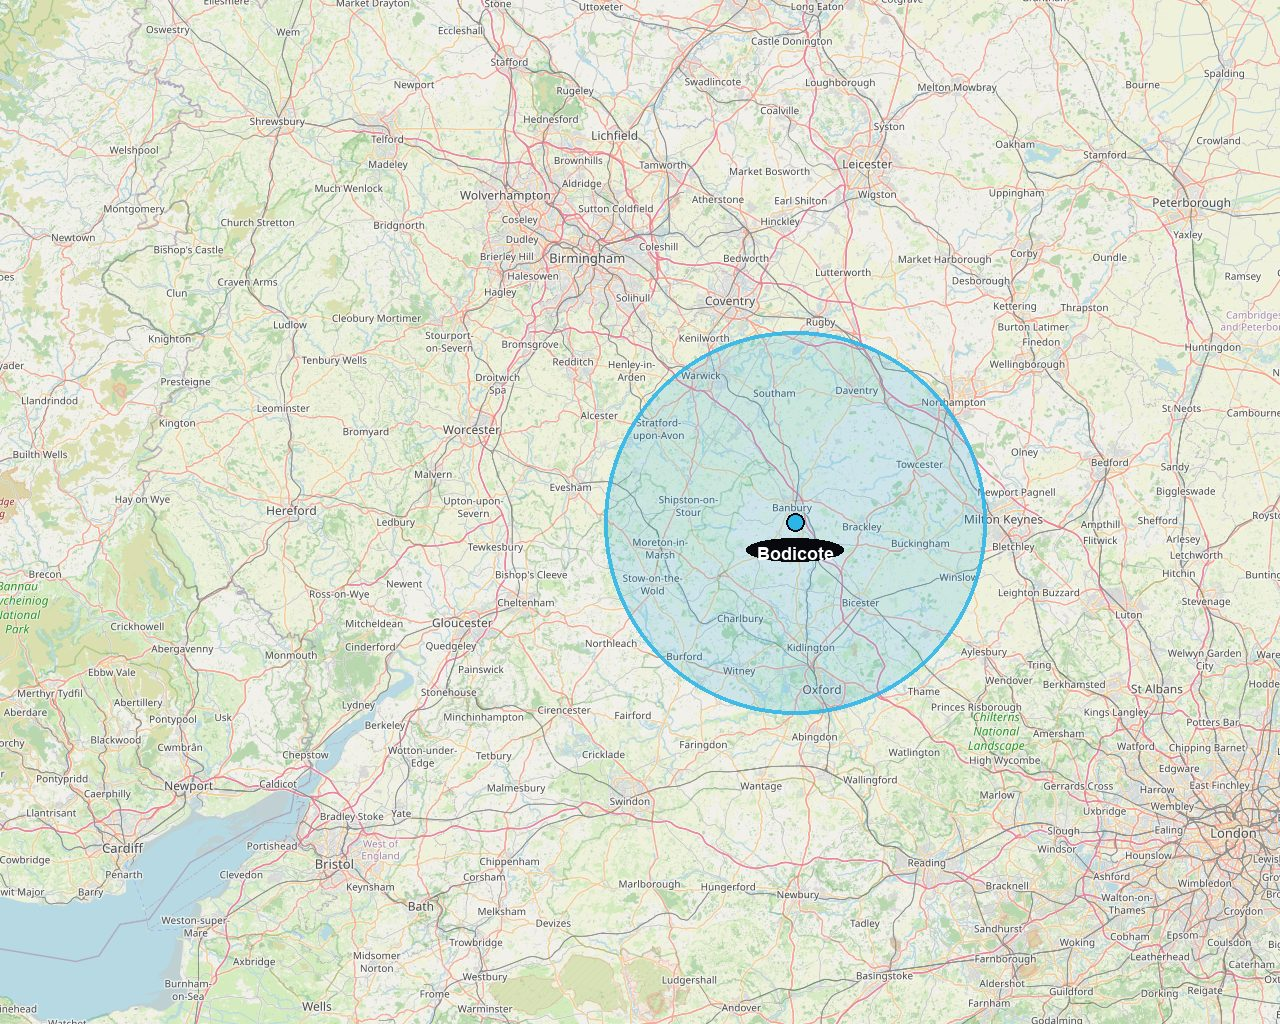
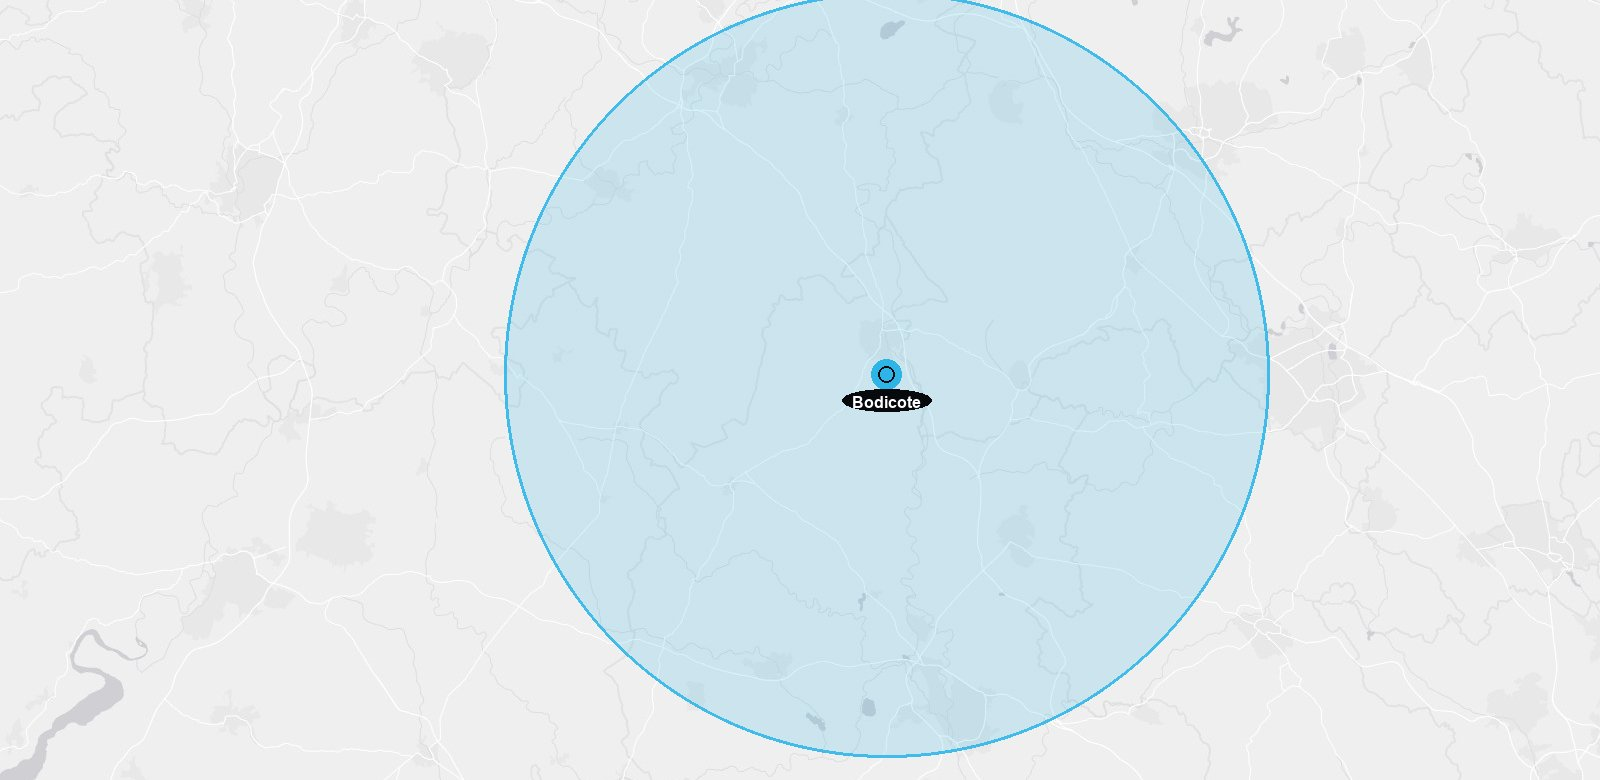
Restore the light grey coverage look as a single static image.

diff --git a/src/components/home/CoverageMap.tsx b/src/components/home/CoverageMap.tsx
@@ -11,7 +11,7 @@ export function CoverageMap() {
         className="object-cover object-[center_52%]"
         sizes="100vw"
       />
-      <p className="absolute bottom-2 right-3 text-[10px] text-ink/45">© OpenStreetMap</p>
+      <p className="absolute bottom-2 right-3 text-[10px] text-ink/40">© OpenStreetMap © Esri</p>
     </div>
   );
 }
